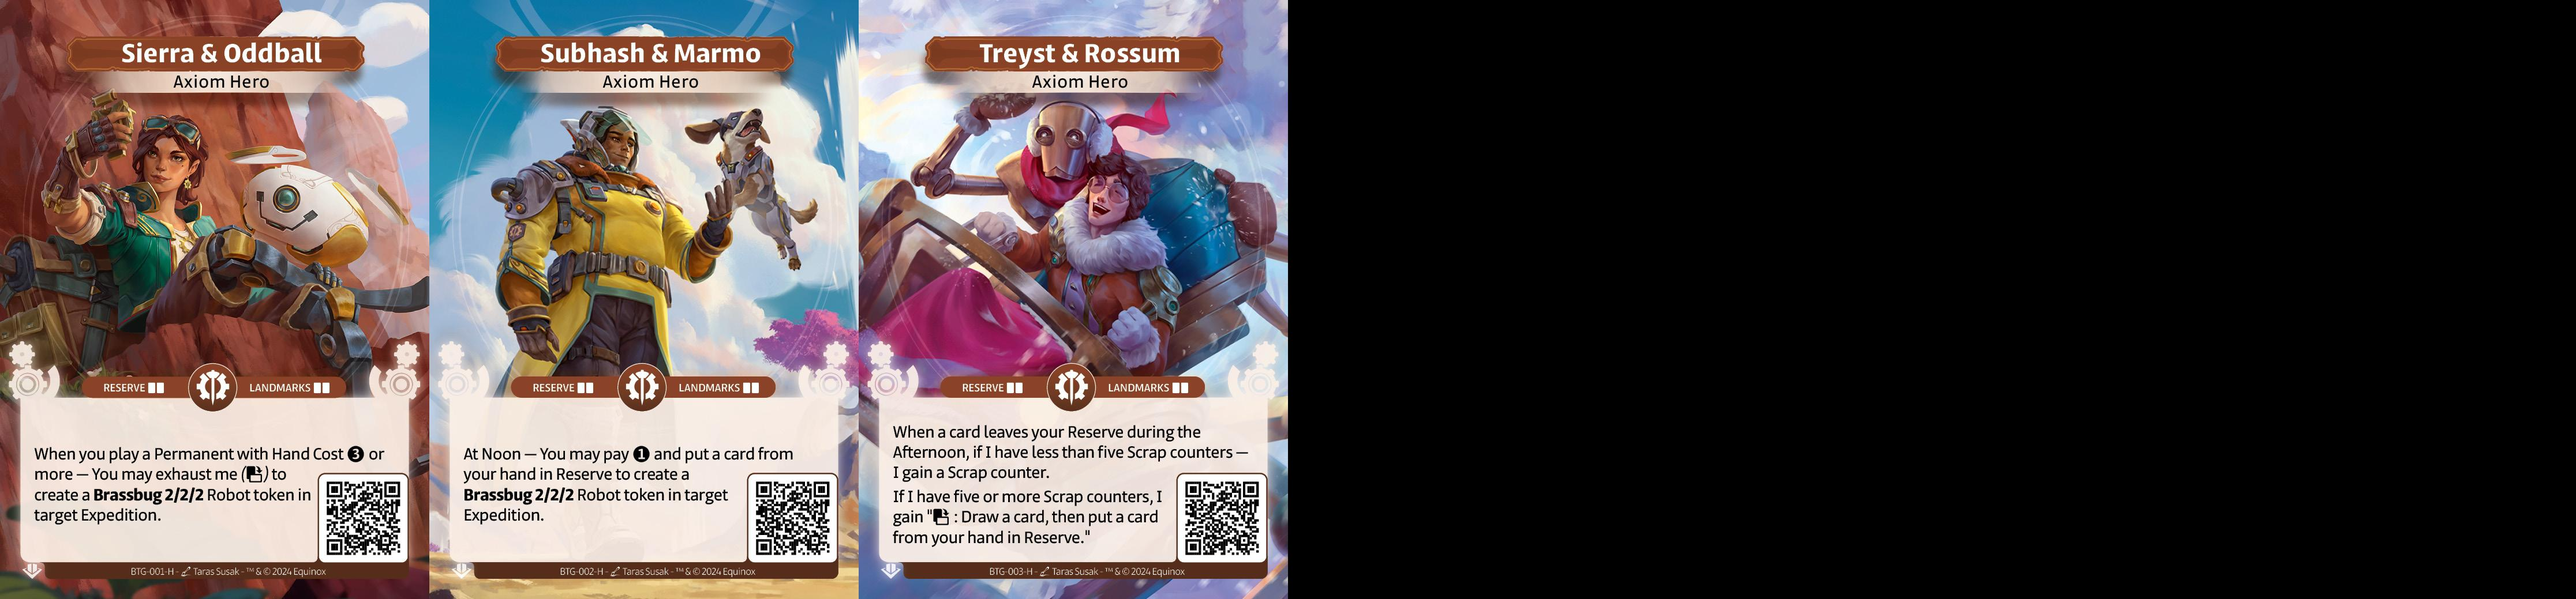
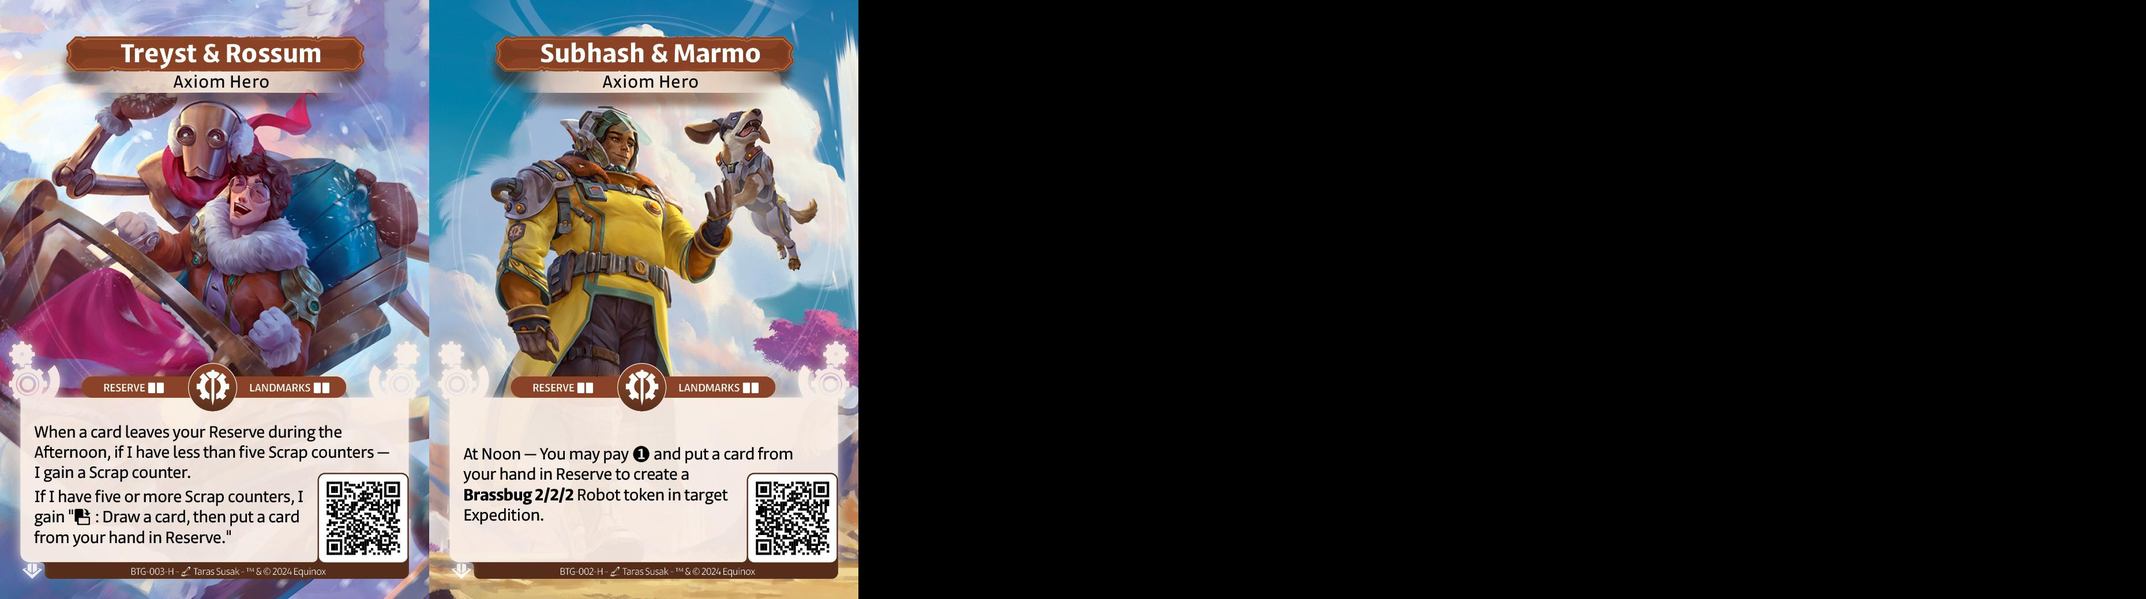
feat: new branch for paper session with 6 players, bravos and axiom done

diff --git a/generate_cube.py b/generate_cube.py
@@ -28,7 +28,7 @@ def card_list_from_file_path(path):
     return card_list
 
 
-def jpg_from_card_list(name='custom/export.jpg', card_list=[], col=6):
+def jpg_from_card_list(name='custom/export.jpg', card_list=[], col=5):
     images = [Image.open(x) for x in card_list]
     new_im = Image.new('RGB', get_dimention_from_images(images, col))
     x_offset = 0
